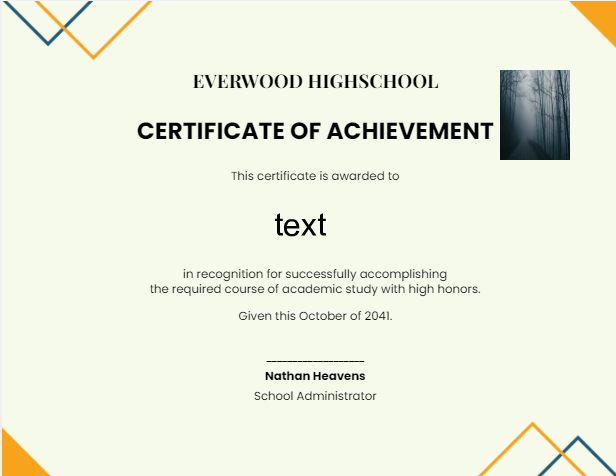
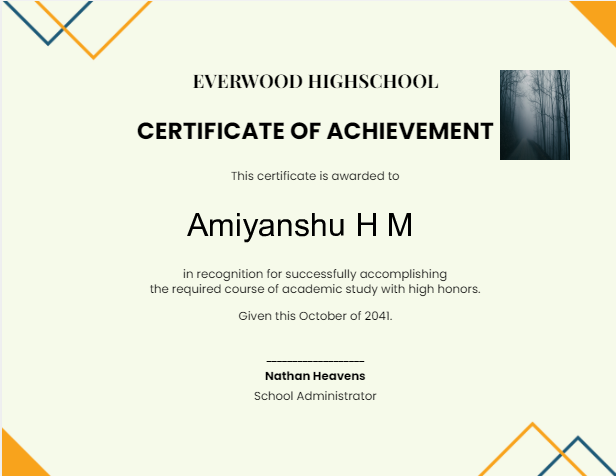
SuccessFully Reciving the image from api

Changed region(s): [[0.3084, 0.4412, 0.6786, 0.5]]

diff --git a/client/src/Components/Home.js b/client/src/Components/Home.js
@@ -1,6 +1,7 @@
 import React,{useState} from 'react'
 import axios from 'axios';
 
+
 import { Formik, Form, Field } from "formik";
 function Home() {
 
@@ -8,21 +9,33 @@ function Home() {
       text:""
         
       };
-
+  
 
     const [image, setimage] = useState('');
     const onSubmit = (data) => {
         console.log(data)
-        axios.post("http://localhost:3001", data).then((response) => {
-          console.log("IT WORKED");
-            console.log(response.data)
-            setimage(response.data)
-        });
+      axios.post("http://localhost:3001", data, { responseType:'blob'}).then((res) => {
+      var binaryData = [];
+      binaryData.push(res.data);
+     const url= URL.createObjectURL(new Blob(binaryData, {type: "image"}))
+        // const url = URL.createObjectURL(res.data);
+        console.log("This is url ", url)
+        console.log("This is response ",res.data)
+        setimage(url)
+      }).catch(err => {
+        console.log(err)
+      })
+        // .then((blob) => {
+        // const imageObjectUrl = URL.createObjectURL(blob);
+        // setimage(imageObjectUrl)
+      // });
+      
+      
       };
   return (
-      <div>
-          <Formik initialValues={initialValues} onSubmit={onSubmit} >
-        <Form>
+      <div className='w-1/3 flex flex-col justify-center mx-auto my-24 space-y-4'>
+          <Formik initialValues={initialValues} onSubmit={onSubmit}  >
+        <Form className='space-y-4'>
               
                 
                 <Field type="text" id="inputCreatePost" className="focus:outline-none focus:ring-offset-0 text-white placeholder-gray-200 text-sm rounded-lg  block w-full p-2.5 bg-gradient-to-r from-indigo-700 via-purple-700 to-pink-700" placeholder="" name="text" />
@@ -40,7 +53,7 @@ function Home() {
 
           <div>This is the response
           
-          <img src={image.toString()}></img>
+          <img src={image}></img>
           </div>
     </div>
   )

diff --git a/client/src/App.js b/client/src/App.js
@@ -1,4 +1,5 @@
 import Home from "./Components/Home";
+
 function App() {
   return (
     <div className="App">
